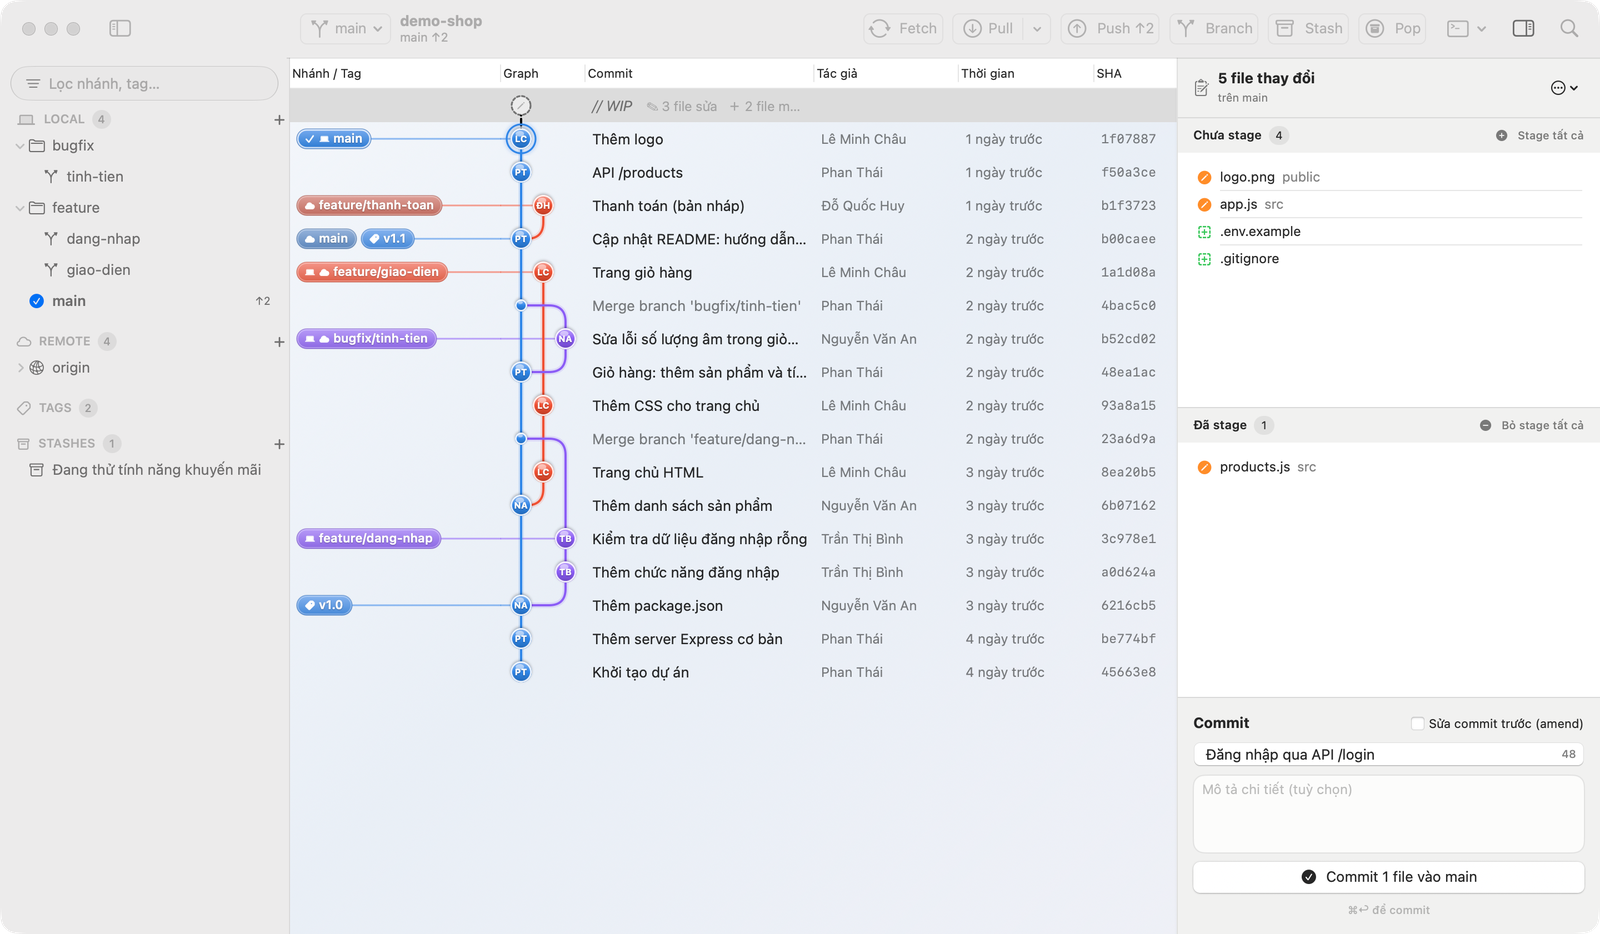
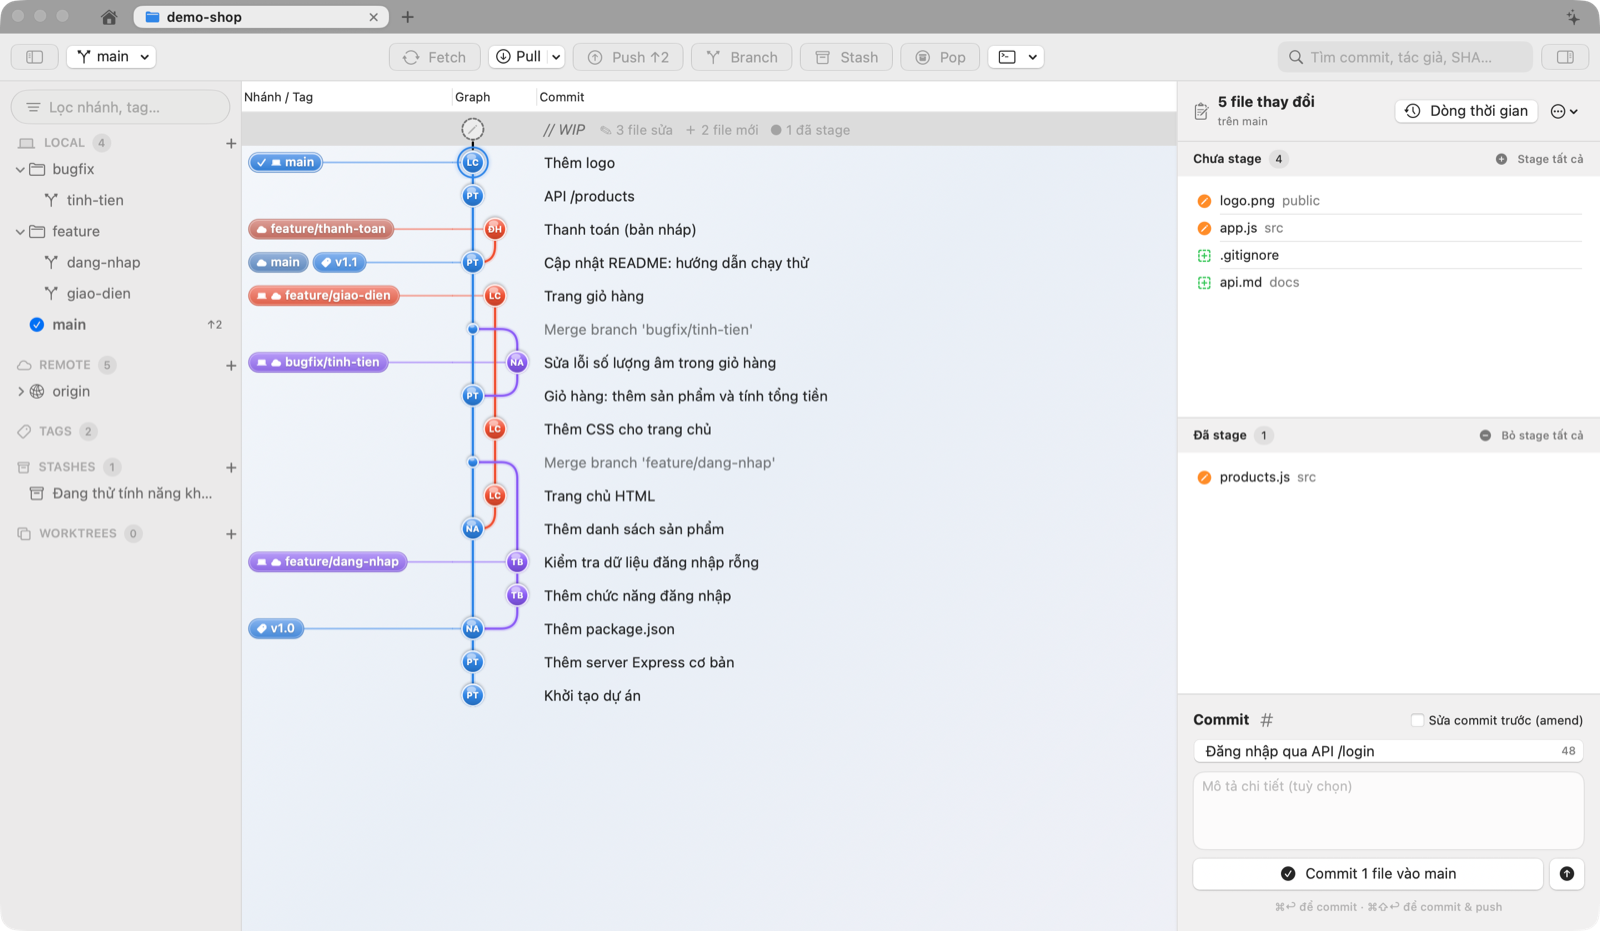
Trang chủ: chụp lại ảnh giao diện theo app macOS hiện tại (sáng / tối cùng khung), thêm script dựng repo demo và chụp tự động

diff --git a/site/lib/shots.ts b/site/lib/shots.ts
@@ -3,13 +3,13 @@ export const SHOTS = {
   'conflict': { width: 1600, height: 931, alt: 'Trình giải xung đột: giữ Current, Incoming hoặc cả hai cho từng khối' },
   'diff-lines': { width: 1600, height: 931, alt: 'Chọn 3 dòng trong diff rồi bấm Stage dòng' },
   'diff-split': { width: 1600, height: 931, alt: 'Diff tách đôi: trước và sau' },
-  'drag': { width: 1600, height: 929, alt: 'Thả nhánh feature/giao-dien lên main: chọn merge hoặc rebase' },
+  'drag': { width: 1600, height: 931, alt: 'Thả nhánh feature/giao-dien lên main: chọn merge hoặc rebase' },
   'image-diff': { width: 1600, height: 931, alt: 'Diff ảnh: logo trước và sau khi đổi' },
-  'large': { width: 1600, height: 934, alt: 'Repo 30.000 commit, gần 1.100 nhánh và tag' },
-  'overview': { width: 1600, height: 934, alt: 'Thaigit: graph commit nhiều màu, sidebar nhánh và panel commit' },
+  'large': { width: 1600, height: 931, alt: 'Repo 30.000 commit, gần 1.100 nhánh và tag' },
+  'overview': { width: 1600, height: 931, alt: 'Thaigit: graph commit nhiều màu, sidebar nhánh và panel commit' },
   'overview-dark': { width: 1600, height: 931, alt: 'Thaigit giao diện tối' },
   'switch': { width: 1600, height: 931, alt: 'Hộp tìm và chuyển nhánh nhanh (⌘B)' },
-  'welcome': { width: 1600, height: 934, alt: 'Màn hình chào: mở, clone, tạo repository' },
+  'welcome': { width: 1600, height: 931, alt: 'Màn hình chào: mở, clone, tạo repository' },
 } as const;
 
 export type ShotName = keyof typeof SHOTS;

diff --git a/site/scripts/make-demo-repos.py b/site/scripts/make-demo-repos.py
@@ -1,0 +1,232 @@
+#!/usr/bin/env python3
+"""Dựng các repo demo để chụp ảnh giao diện (docs/screenshots) — dùng bởi site/scripts/take-shots.sh.
+
+    python3 site/scripts/make-demo-repos.py <thư mục>
+
+Tạo trong <thư mục>:
+  demo-shop/   repo cửa hàng nhỏ: 4 tác giả, nhánh feature/bugfix đã merge, tag, remote `origin` (bare), stash,
+               main đi trước origin 2 commit, thay đổi chưa commit (sửa app.js + logo.png, file mới, products.js đã stage)
+  origin.git/  remote của demo-shop
+  xung-dot/    đang merge feature/doi-cong vào main, server.js xung đột 2 đoạn
+  large/       30.000 commit, ~1.100 nhánh + tag (packages/core/test/fixtures/make-big-repo.py)
+Mọi lệnh git chạy với cấu hình cô lập (không đọc ~/.gitconfig). Cần Pillow (logo trước / sau).
+"""
+import os
+import shutil
+import subprocess
+import sys
+import time
+from pathlib import Path
+
+from PIL import Image, ImageOps
+
+ROOT = Path(__file__).resolve().parents[2]
+ENV = {
+    **os.environ,
+    'GIT_CONFIG_NOSYSTEM': '1',
+    'GIT_CONFIG_GLOBAL': '/dev/null',
+    'GIT_TERMINAL_PROMPT': '0',
+}
+PEOPLE = {
+    'PT': ('Phan Thái', 'thai@example.com'),
+    'LC': ('Lê Minh Châu', 'chau@example.com'),
+    'NA': ('Nguyễn Văn An', 'an@example.com'),
+    'TB': ('Trần Thị Bình', 'binh@example.com'),
+    'DH': ('Đỗ Quốc Huy', 'huy@example.com'),
+}
+NOW = int(time.time())
+
+
+def git(repo: Path, *args: str, who: str = 'PT', age_hours: float = 0, check: bool = True) -> str:
+    name, email = PEOPLE[who]
+    date = f'{NOW - int(age_hours * 3600)} +0700'
+    env = {
+        **ENV,
+        'GIT_AUTHOR_NAME': name, 'GIT_AUTHOR_EMAIL': email, 'GIT_AUTHOR_DATE': date,
+        'GIT_COMMITTER_NAME': name, 'GIT_COMMITTER_EMAIL': email, 'GIT_COMMITTER_DATE': date,
+    }
+    result = subprocess.run(['git', *args], cwd=repo, env=env, capture_output=True, text=True)
+    if check and result.returncode != 0:
+        sys.exit(f'git {" ".join(args)} lỗi:\n{result.stderr}')
+    return result.stdout
+
+
+def write(repo: Path, path: str, text: str) -> None:
+    file = repo / path
+    file.parent.mkdir(parents=True, exist_ok=True)
+    file.write_text(text, encoding='utf-8')
+
+
+def commit(repo: Path, message: str, who: str, age_hours: float, files: dict[str, str]) -> None:
+    for path, text in files.items():
+        write(repo, path, text)
+    git(repo, 'add', '-A')
+    git(repo, 'commit', '-q', '-m', message, who=who, age_hours=age_hours)
+
+
+def merge(repo: Path, branch: str, who: str, age_hours: float) -> None:
+    git(repo, 'merge', '-q', '--no-ff', '--no-edit', branch, who=who, age_hours=age_hours)
+
+
+def logos(directory: Path) -> tuple[Path, Path]:
+    """Logo trước (xám) / sau (màu) 128 px từ logo của trang chủ."""
+    source = Image.open(ROOT / 'site' / 'public' / 'logo-256.png').convert('RGBA').resize((128, 128), Image.LANCZOS)
+    after = directory / 'logo-after.png'
+    before = directory / 'logo-before.png'
+    source.save(after)
+    gray = ImageOps.grayscale(source.convert('RGB')).convert('RGBA')
+    gray.putalpha(source.getchannel('A'))
+    gray.save(before)
+    return before, after
+
+
+APP_V1 = """const app = require('express')();
+const products = require('./products');
+
+app.get('/', (req, res) => res.send('Xin chào'));
+app.use(require('express').json());
+app.get('/products', (req, res) => res.json(products));
+
+app.listen(3000);
+"""
+
+APP_WIP = """const app = require('express')();
+const products = require('./products');
+const { login } = require('./auth');
+
+app.get('/', (req, res) => res.send('Xin chào, Demo Shop!'));
+app.get('/products', (req, res) => res.json(products));
+app.post('/login', (req, res) => {
+  const ok = login(req.body.user, req.body.pass);
+  res.status(ok ? 200 : 401).json({ ok });
+});
+
+app.listen(process.env.PORT || 3000);
+"""
+
+
+def demo_shop(base: Path) -> None:
+    repo = base / 'demo-shop'
+    origin = base / 'origin.git'
+    repo.mkdir()
+    git(base, 'init', '-q', '--bare', '-b', 'main', str(origin))
+    git(repo, 'init', '-q', '-b', 'main')
+    git(repo, 'remote', 'add', 'origin', str(origin))
+    before, after = logos(base)
+
+    commit(repo, 'Khởi tạo dự án', 'PT', 98, {'README.md': '# Demo Shop\n', '.editorconfig': 'root = true\n'})
+    commit(repo, 'Thêm server Express cơ bản', 'PT', 96, {'src/app.js': "const express = require('express');\n\napp.listen(3000);\n"})
+    commit(repo, 'Thêm package.json', 'NA', 80, {'package.json': '{\n  "name": "demo-shop",\n  "version": "1.0.0"\n}\n'})
+    git(repo, 'tag', 'v1.0')
+
+    git(repo, 'switch', '-q', '-c', 'feature/dang-nhap')
+    commit(repo, 'Thêm chức năng đăng nhập', 'TB', 76, {'src/auth.js': 'exports.login = (user, pass) => user === pass;\n'})
+    commit(repo, 'Kiểm tra dữ liệu đăng nhập rỗng', 'TB', 74,
+           {'src/auth.js': 'exports.login = (user, pass) => Boolean(user && pass) && user === pass;\n'})
+    git(repo, 'switch', '-q', 'main')
+    commit(repo, 'Thêm danh sách sản phẩm', 'NA', 73, {'src/products.js': "module.exports = [{ id: 1, name: 'Áo thun' }];\n"})
+
+    git(repo, 'switch', '-q', '-c', 'feature/giao-dien')
+    commit(repo, 'Trang chủ HTML', 'LC', 72, {'public/index.html': '<h1>Demo Shop</h1>\n'})
+    git(repo, 'switch', '-q', 'main')
+    merge(repo, 'feature/dang-nhap', 'PT', 70)
+    git(repo, 'switch', '-q', 'feature/giao-dien')
+    commit(repo, 'Thêm CSS cho trang chủ', 'LC', 52, {'public/style.css': 'body { font-family: system-ui; }\n'})
+    git(repo, 'switch', '-q', 'main')
+    commit(repo, 'Giỏ hàng: thêm sản phẩm và tính tổng tiền', 'PT', 50, {'src/cart.js': 'exports.total = (items) => items.reduce((s, i) => s + i.price * i.qty, 0);\n'})
+
+    git(repo, 'switch', '-q', '-c', 'bugfix/tinh-tien')
+    commit(repo, 'Sửa lỗi số lượng âm trong giỏ hàng', 'NA', 49,
+           {'src/cart.js': 'exports.total = (items) => items.reduce((s, i) => s + i.price * Math.max(0, i.qty), 0);\n'})
+    git(repo, 'switch', '-q', 'main')
+    merge(repo, 'bugfix/tinh-tien', 'PT', 48)
+    git(repo, 'switch', '-q', 'feature/giao-dien')
+    commit(repo, 'Trang giỏ hàng', 'LC', 47, {'public/cart.html': '<h1>Giỏ hàng</h1>\n'})
+    git(repo, 'switch', '-q', 'main')
+    (repo / 'public').mkdir(exist_ok=True)
+    shutil.copy(before, repo / 'public' / 'logo.png')
+    commit(repo, 'Cập nhật README: hướng dẫn chạy thử', 'PT', 46,
+           {'README.md': '# Demo Shop\n\nChạy thử: `npm install && npm start`\n', 'src/app.js': APP_V1})
+    git(repo, 'tag', 'v1.1')
+
+    git(repo, 'switch', '-q', '-c', 'feature/thanh-toan')
+    commit(repo, 'Thanh toán (bản nháp)', 'DH', 30, {'src/payment.js': '// TODO: cổng thanh toán\n'})
+    git(repo, 'switch', '-q', 'main')
+
+    git(repo, 'push', '-q', 'origin', 'main', 'feature/dang-nhap', 'feature/giao-dien', 'bugfix/tinh-tien',
+        'feature/thanh-toan', '--tags')
+    git(repo, 'fetch', '-q', 'origin')
+    git(repo, 'branch', '-q', '-D', 'feature/thanh-toan')
+    for branch in ('main', 'feature/dang-nhap', 'feature/giao-dien', 'bugfix/tinh-tien'):
+        git(repo, 'branch', '-q', f'--set-upstream-to=origin/{branch}', branch)
+
+    commit(repo, 'API /products', 'PT', 26, {'src/routes.js': "module.exports = (app) => app.get('/api/products', () => {});\n"})
+    commit(repo, 'Thêm logo', 'LC', 25, {'public/favicon.svg': '<svg xmlns="http://www.w3.org/2000/svg"/>\n'})
+
+    # Stash, rồi thay đổi đang làm.
+    write(repo, 'src/promo.js', "exports.discount = (total) => total * 0.9;\n")
+    git(repo, 'add', 'src/promo.js')
+    git(repo, 'stash', 'push', '-q', '-m', 'Đang thử tính năng khuyến mãi', who='PT', age_hours=20)
+    write(repo, 'src/products.js', "module.exports = [\n  { id: 1, name: 'Áo thun', price: 150000 },\n  { id: 2, name: 'Quần jean', price: 420000 },\n];\n")
+    git(repo, 'add', 'src/products.js')
+    write(repo, 'src/app.js', APP_WIP)
+    shutil.copy(after, repo / 'public' / 'logo.png')
+    write(repo, 'docs/api.md', '# API\n\n- `GET /products`\n- `POST /login`\n')
+    write(repo, '.gitignore', 'node_modules/\n.env\n')
+
+
+SERVER_BASE = """const config = {
+  port: 3000,
+  host: "localhost",
+  debug: true,
+};
+
+function start() {
+  console.log("Bắt đầu");
+}
+
+module.exports = { config, start };
+"""
+
+
+def conflict(base: Path) -> None:
+    repo = base / 'xung-dot'
+    repo.mkdir()
+    git(repo, 'init', '-q', '-b', 'main')
+    commit(repo, 'Khởi tạo server', 'PT', 30, {'server.js': SERVER_BASE})
+    git(repo, 'switch', '-q', '-c', 'feature/doi-cong')
+    commit(repo, 'Đổi cổng sang 8080', 'NA', 20, {'server.js': SERVER_BASE.replace('3000', '8080').replace(
+        'console.log("Bắt đầu")', 'console.log("Server chạy ở cổng 8080")')})
+    git(repo, 'switch', '-q', 'main')
+    commit(repo, 'Dùng cổng 5000', 'PT', 10, {'server.js': SERVER_BASE.replace('3000', '5000').replace(
+        'console.log("Bắt đầu")', 'console.log("Khởi động server…")')})
+    git(repo, 'merge', 'feature/doi-cong', check=False)
+
+
+def large(base: Path) -> None:
+    repo = base / 'large'
+    repo.mkdir()
+    git(repo, 'init', '-q', '-b', 'main')
+    stream = subprocess.run([sys.executable, str(ROOT / 'packages/core/test/fixtures/make-big-repo.py')],
+                            capture_output=True, check=True).stdout
+    subprocess.run(['git', 'fast-import', '--quiet'], cwd=repo, env=ENV, input=stream, check=True)
+    git(repo, 'checkout', '-q', '-f', 'main')
+    with open(repo / 'README.md', 'a', encoding='utf-8') as handle:
+        handle.write('thêm một dòng\n')
+
+
+def main() -> None:
+    if len(sys.argv) != 2:
+        sys.exit(__doc__)
+    base = Path(sys.argv[1]).resolve()
+    if base.exists():
+        shutil.rmtree(base)
+    base.mkdir(parents=True)
+    demo_shop(base)
+    conflict(base)
+    large(base)
+    print(f'✓ demo-shop, xung-dot, large → {base}')
+
+
+if __name__ == '__main__':
+    main()

diff --git a/site/scripts/make-shots.py b/site/scripts/make-shots.py
@@ -4,7 +4,8 @@
     python3 site/scripts/make-shots.py
 
 Tạo public/screenshots/<tên>-1600.webp và <tên>-800.webp, rồi viết lại lib/shots.ts (kích thước + alt).
-Cần Pillow (pip install pillow). Chạy lại mỗi khi chụp lại ảnh trong docs/screenshots.
+Cần Pillow (pip install pillow). Chạy lại mỗi khi chụp lại ảnh trong docs/screenshots — site/scripts/take-shots.sh
+chụp lại toàn bộ từ app macOS (repo demo dựng bằng make-demo-repos.py) rồi tự gọi script này.
 """
 from pathlib import Path
 
